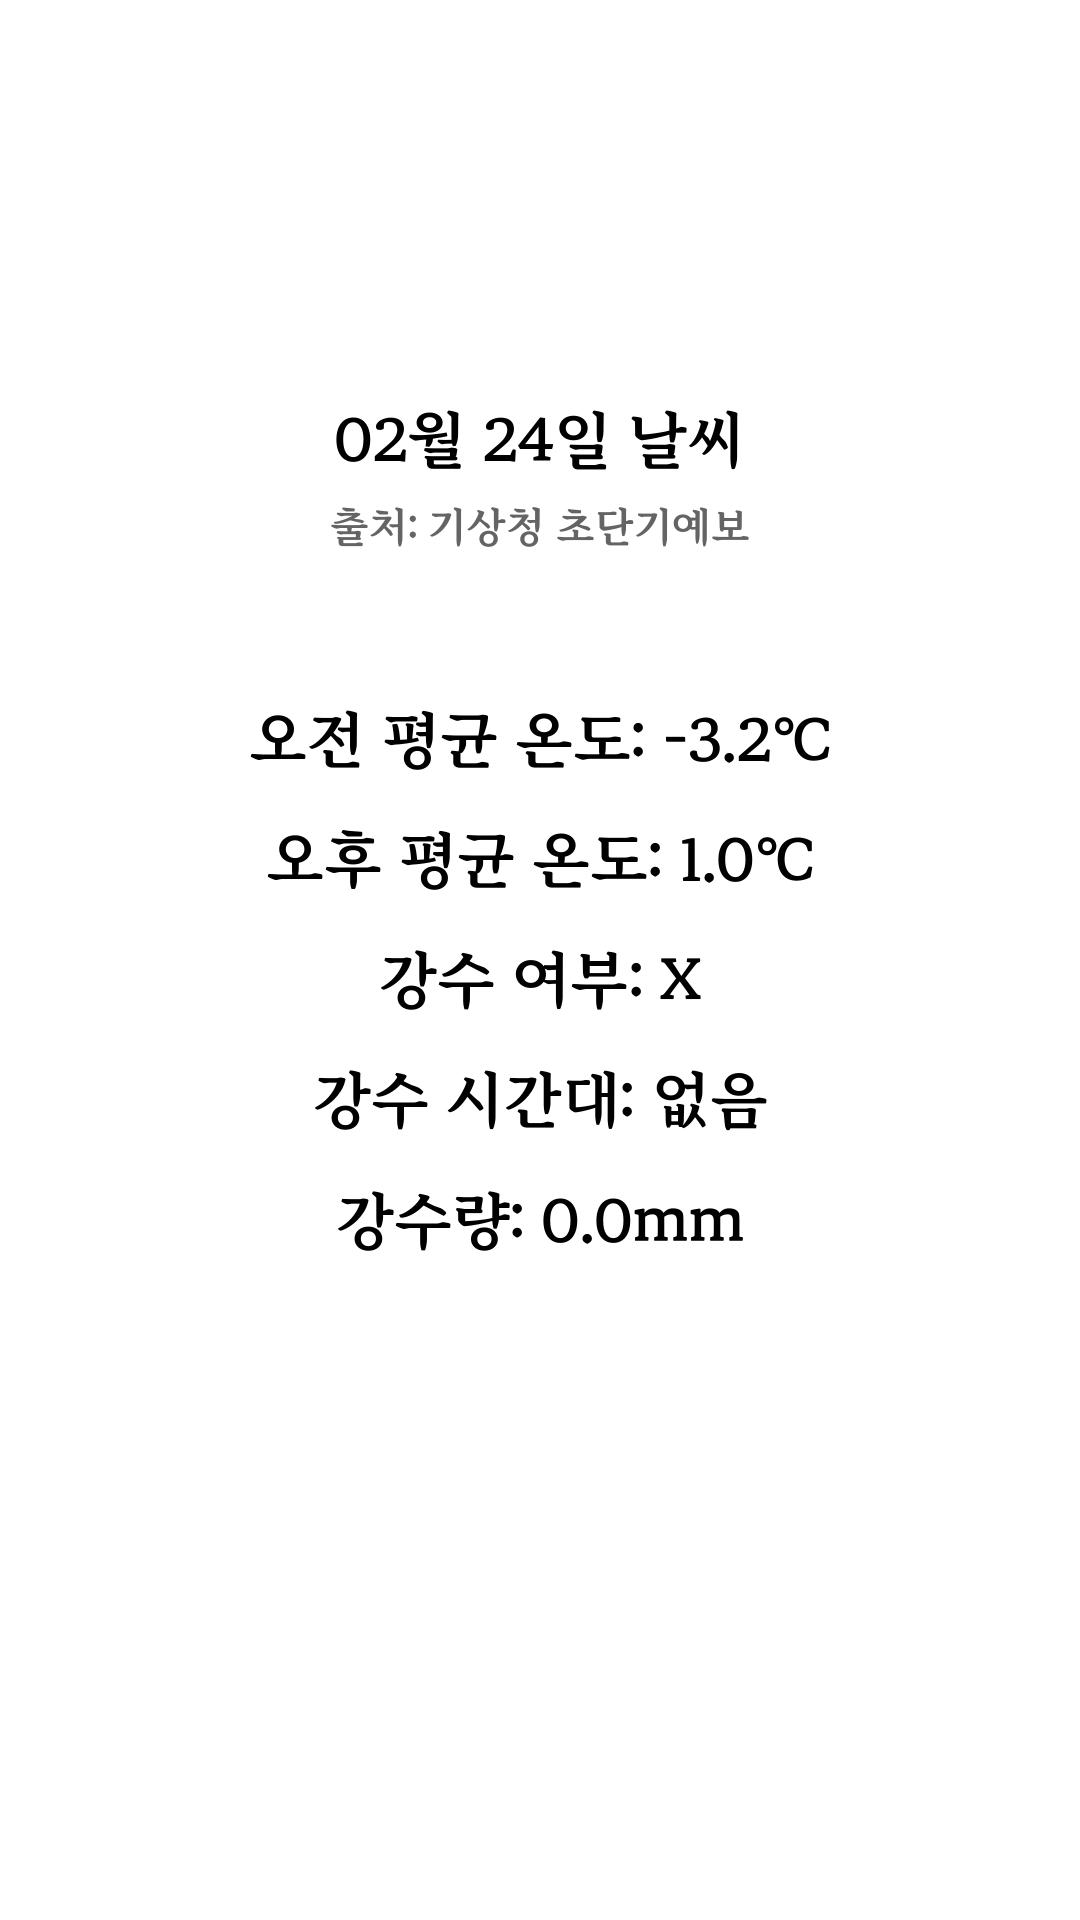
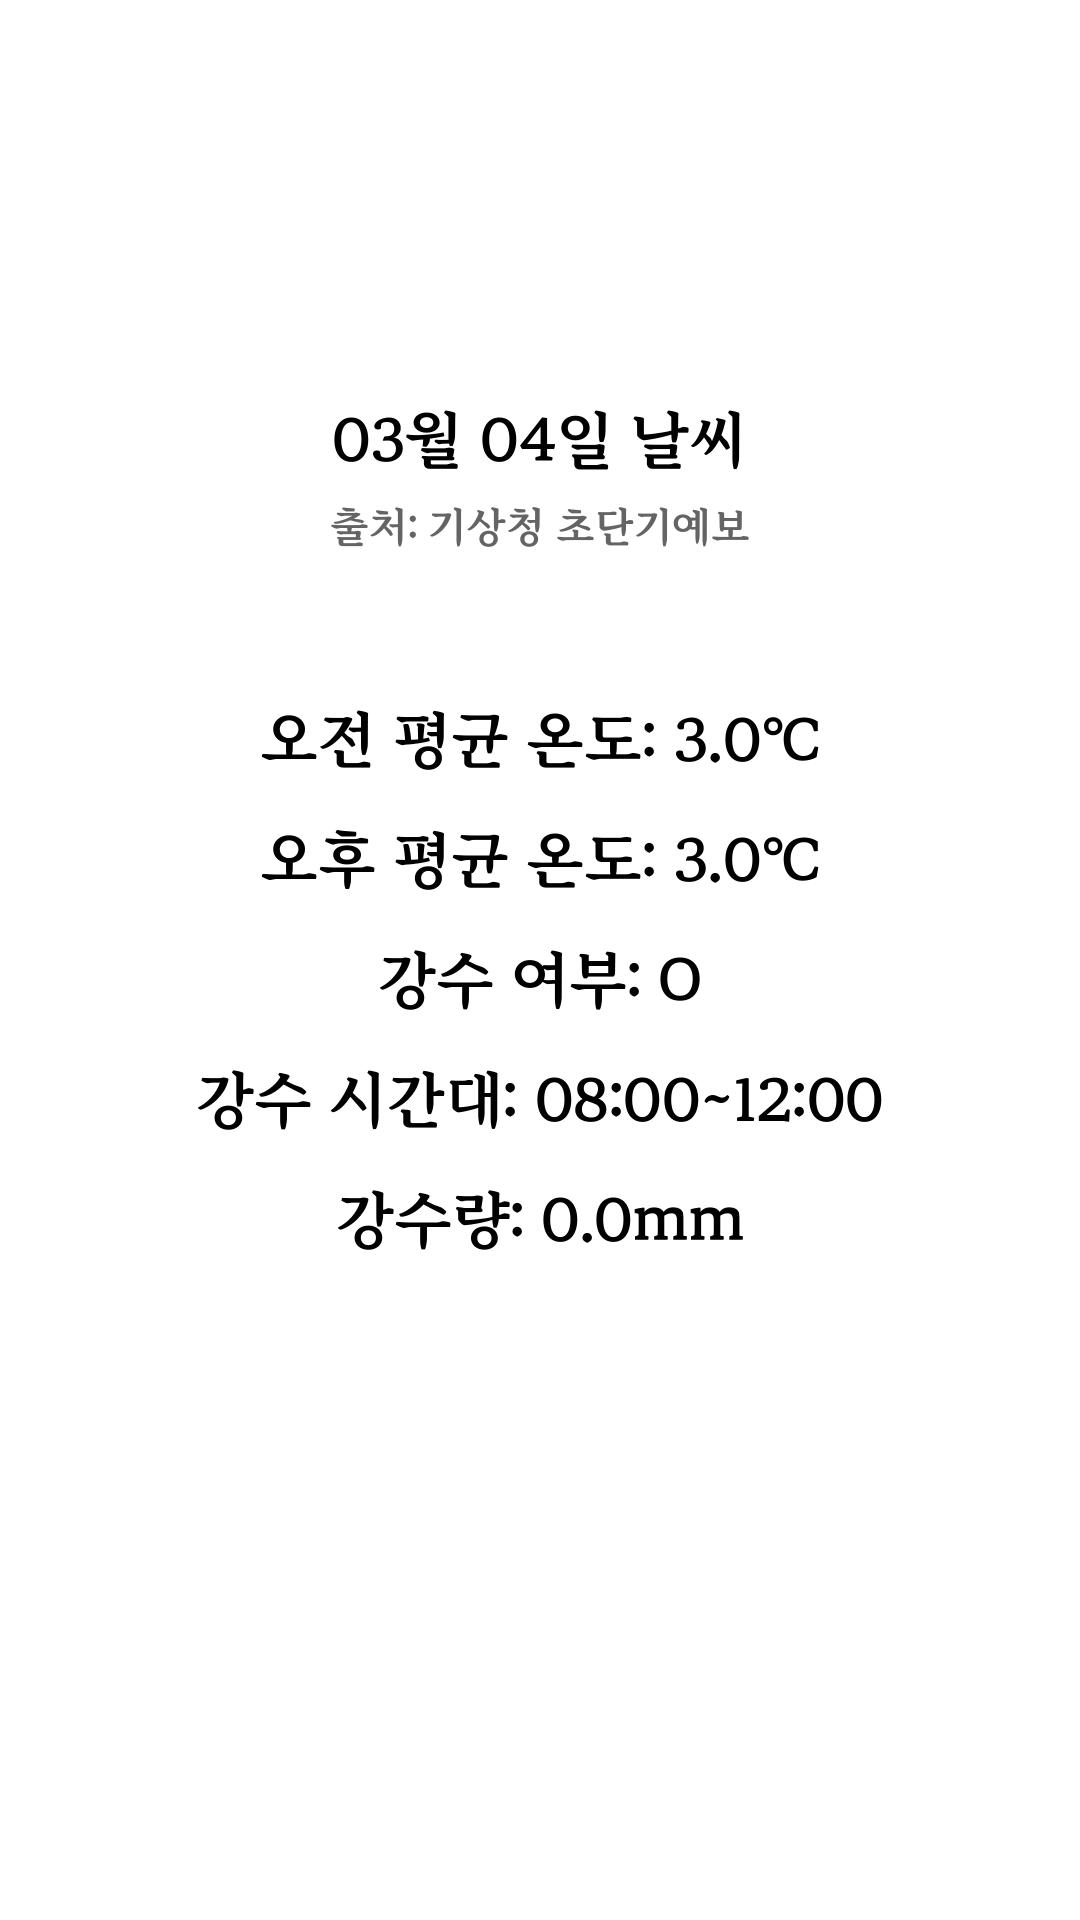
asdf

diff --git a/src/main.py b/src/main.py
@@ -8,6 +8,7 @@ from datetime import datetime, timedelta
 from instagrapi import Client
 from PIL import Image, ImageDraw, ImageFont
 from dotenv import load_dotenv
+from collections import Counter
 
 # 환경 변수 로드
 load_dotenv()
@@ -48,11 +49,41 @@ def get_weather_data():
         base_date = base_time_dt.strftime("%Y%m%d")
         base_time = base_time_dt.strftime("%H%M")
 
+        # API 요청 URL (시간 형식은 항상 4자리 문자열이어야 함 - 예: "0630")
         url = f'http://apis.data.go.kr/1360000/VilageFcstInfoService_2.0/getUltraSrtFcst?serviceKey={WEATHER_API_KEY}&pageNo=1&numOfRows=1000&dataType=JSON&base_date={base_date}&base_time=0630&nx={NX}&ny={NY}'
+        
+        print(f"요청 URL: {url}")  # 디버깅 정보
         
         response = requests.get(url)
         response.raise_for_status()
-        data = response.json()
+        
+        # 응답 내용 확인 (디버깅용)
+        print(f"응답 상태 코드: {response.status_code}")
+        print(f"응답 헤더: {response.headers['Content-Type']}")
+        
+        try:
+            data = response.json()
+        except Exception as e:
+            print(f"JSON 변환 오류: {e}")
+            print(f"응답 내용: {response.text[:200]}...")  # 앞부분만 출력
+            raise
+        
+        # 응답 구조 확인
+        if 'response' not in data:
+            print(f"예상치 못한 응답 형식: {data.keys()}")
+            raise ValueError("API 응답에 'response' 키가 없습니다")
+            
+        if 'body' not in data['response']:
+            print(f"예상치 못한 응답 형식: {data['response'].keys()}")
+            raise ValueError("API 응답에 'body' 키가 없습니다")
+            
+        if 'items' not in data['response']['body']:
+            print(f"예상치 못한 응답 형식: {data['response']['body'].keys()}")
+            raise ValueError("API 응답에 'items' 키가 없습니다")
+        
+        if 'item' not in data['response']['body']['items']:
+            print(f"예상치 못한 응답 형식: {data['response']['body']['items'].keys()}")
+            raise ValueError("API 응답에 'item' 키가 없습니다")
         
         items = data['response']['body']['items']['item']
         today = now.strftime("%Y%m%d")
@@ -71,34 +102,74 @@ def get_weather_data():
             forecasts[fcst_time][category] = value
 
         # 데이터 분석
-        am_temps, pm_temps = [], []
+        temps = []
+        humidities = []
         precip_times = []
         precip_sum = 0.0
-        precip_types = set()  # 강수 형태를 저장할 집합
+        sky_codes = []  # 하늘 상태 코드 저장
+        precip_types_list = []  # 강수 형태 저장
 
         for time_str in sorted(forecasts.keys()):
             data = forecasts[time_str]
-            hour = int(time_str[:2])
             
             # 온도
             if 'T1H' in data:
                 try:
                     temp = float(data['T1H'])
-                    if hour < 12: am_temps.append(temp)
-                    else: pm_temps.append(temp)
-                except: pass
+                    temps.append(temp)
+                except: 
+                    pass
+
+            # 습도
+            if 'REH' in data:
+                try:
+                    humidity = float(data['REH'])
+                    humidities.append(humidity)
+                except:
+                    pass
+
+            # 하늘 상태
+            if 'SKY' in data:
+                try:
+                    sky_codes.append(data['SKY'])
+                except:
+                    pass
 
             # 강수 형태 확인
             pty = data.get('PTY', '0')
             if pty != '0':
-                precip_types.add(pty)  # 강수 형태 추가
+                # 강수형태(PTY) 코드 매핑
+                precip_type_map = {
+                    '0': '없음',
+                    '1': '비',
+                    '2': '비/눈',
+                    '3': '눈',
+                    '4': '소나기',
+                    '5': '빗방울',
+                    '6': '빗방울눈날림',
+                    '7': '눈날림'
+                }
+                precip_type = precip_type_map.get(pty, f'알 수 없음({pty})')
+                precip_types_list.append(precip_type)
 
             # 강수량 확인
             rn1 = data.get('RN1', '0')
             if rn1 not in ['0', '강수없음']:
                 try:
-                    precip_sum += float(rn1)
-                except:
+                    # 강수량 문자열 파싱
+                    if rn1 == '1mm 미만':
+                        precip_sum += 0.5  # 1mm 미만은 0.5로 가정
+                    elif 'mm' in rn1:
+                        # 숫자 부분만 추출 (예: "2.0mm" -> 2.0)
+                        precip_value = float(re.search(r'(\d+\.?\d*)', rn1).group(1))
+                        precip_sum += precip_value
+                    else:
+                        try:
+                            precip_sum += float(rn1)
+                        except:
+                            pass
+                except Exception as e:
+                    print(f"강수량 파싱 오류: {e} - 값: {rn1}")
                     pass
 
             # 강수 시간대 추가
@@ -124,66 +195,143 @@ def get_weather_data():
             else:
                 time_ranges.append(f"{current_start}~{current_end}")  # 마지막 연속 시간대
 
-        # 강수 형태 매핑
-        precip_type_map = {
-            '0': '없음',
-            '1': '비',
-            '2': '비/눈',
-            '3': '눈',
-            '4': '소나기'
-        }
-        precip_type_str = ', '.join([precip_type_map[pty] for pty in sorted(precip_types)]) if precip_types else '없음'
+        # 하늘 상태 결정 (가장 많이 나온 코드)
+        sky_condition = "정보 없음"
+        if sky_codes:
+            # 하늘상태(SKY) 코드 : 맑음(1), 구름많음(3), 흐림(4)
+            sky_map = {'1': '맑음', '3': '구름많음', '4': '흐림'}
+            sky_counter = Counter(sky_codes)
+            most_common_sky_code = sky_counter.most_common(1)[0][0]
+            sky_condition = sky_map.get(most_common_sky_code, '알 수 없음')
+
+        # 가장 많이 나온 강수 형태 결정
+        precip_type = ""
+        if precip_types_list:
+            precip_counter = Counter(precip_types_list)
+            most_common_precip = precip_counter.most_common(1)[0][0]
+            precip_type = f", {most_common_precip}"
+
+        # 최종 날씨 상태
+        weather_status = f"{sky_condition}{precip_type}"
 
         return {
             'date': now.strftime("%m월 %d일"),
-            'am_temp': sum(am_temps)/len(am_temps) if am_temps else None,
-            'pm_temp': sum(pm_temps)/len(pm_temps) if pm_temps else None,
-            'precip': precip_type_str if precip_types else 'X',  # 강수 형태 또는 X
+            'avg_temp': sum(temps)/len(temps) if temps else None,
+            'avg_humidity': sum(humidities)/len(humidities) if humidities else None,
+            'weather_status': weather_status,
             'precip_times': time_ranges,
             'precip_sum': precip_sum
         }
 
     except Exception as e:
+        import traceback
         print(f"Weather error: {e}")
+        print(traceback.format_exc())
         return None
 
-def create_weather_image(weather):
+def create_weather_image(weather, output_path=None):
     img = Image.new('RGB', (1080, 1920), (255, 255, 255))
     draw = ImageDraw.Draw(img)
     
     try:
-        font = ImageFont.truetype("font.ttf", 60)
-        small_font = ImageFont.truetype("font.ttf", 40)
+        # 폰트 로드
+        title_font = ImageFont.truetype("font.ttf", 60)
+        label_font = ImageFont.truetype("font.ttf", 50)
+        value_font = ImageFont.truetype("font.ttf", 48)
+        source_font = ImageFont.truetype("font.ttf", 38)
     except:
-        font = ImageFont.load_default()
-        small_font = ImageFont.load_default()
+        title_font = ImageFont.load_default()
+        label_font = ImageFont.load_default()
+        value_font = ImageFont.load_default()
+        source_font = ImageFont.load_default()
 
     # 제목
     title = f"{weather['date']} 날씨"
-    w, h = draw.textbbox((0,0), title, font=font)[2:]
-    draw.text(((1080-w)/2, 400), title, (0,0,0), font=font)
+    title_bbox = draw.textbbox((0,0), title, font=title_font)
+    title_width = title_bbox[2] - title_bbox[0]
+    draw.text(((1080-title_width)/2, 350), title, (0,0,0), font=title_font)
 
     # 출처
     source = "출처: 기상청 초단기예보"
-    w, h = draw.textbbox((0,0), source, font=small_font)[2:]
-    draw.text(((1080-w)/2, 500), source, (100,100,100), font=small_font)
+    source_bbox = draw.textbbox((0,0), source, font=source_font)
+    source_width = source_bbox[2] - source_bbox[0]
+    draw.text(((1080-source_width)/2, 430), source, (100,100,100), font=source_font)
 
-    # 내용
-    y = 700
-    lines = [
-        f"오전 평균 온도: {weather['am_temp']:.1f}℃" if weather['am_temp'] else "오전 온도: 정보없음",
-        f"오후 평균 온도: {weather['pm_temp']:.1f}℃" if weather['pm_temp'] else "오후 온도: 정보없음",
-        f"강수 여부: {weather['precip']}",
-        "강수 시간대: " + (", ".join(weather['precip_times']) if weather['precip_times'] else "없음"),
-        f"강수량: {weather['precip_sum']:.1f}mm"
+    # 날씨 정보 항목
+    items = [
+        {"label": "하늘 상태", "value": weather['weather_status']},
+        {"label": "평균 온도", "value": f"{weather['avg_temp']:.1f}℃" if weather['avg_temp'] else "정보없음"},
+        {"label": "평균 습도", "value": f"{weather['avg_humidity']:.1f}%" if weather['avg_humidity'] else "정보없음"},
+        {"label": "강수 시간대", "value": ", ".join(weather['precip_times']) if weather['precip_times'] else "X"},
+        {"label": "강수량", "value": f"{weather['precip_sum']:.1f}mm" if weather['precip_sum'] > 0 else "X"}
     ]
-
-    for line in lines:
-        w, h = draw.textbbox((0,0), line, font=font)[2:]
-        draw.text(((1080-w)/2, y), line, (0,0,0), font=font)
-        y += h + 50
-
-    path = f"{IG_IMAGE_PATH}/{datetime.now().strftime('%Y%m%d')}_weather.jpg"
+    
+    # 시작 위치 설정
+    current_y = 700
+    line_spacing = 100  # 줄 간격
+    center_x = 1080 // 2  # 중앙 X 좌표
+    
+    for item in items:
+        # 레이블과 값을 한 줄에 표시
+        text = f"{item['label']}: {item['value']}"
+        
+        # 줄바꿈이 필요한지 확인
+        text_bbox = draw.textbbox((0, 0), text, font=label_font)
+        text_width = text_bbox[2] - text_bbox[0]
+        
+        if text_width > 900:  # 너무 길면 레이블과 값을 두 줄로 나눔
+            # 레이블 출력
+            label_bbox = draw.textbbox((0, 0), item['label'] + ":", font=label_font)
+            label_width = label_bbox[2] - label_bbox[0]
+            draw.text(((1080-label_width)/2, current_y), item['label'] + ":", (0, 0, 0), font=label_font)
+            
+            # 값은 다음 줄에 출력
+            current_y += 70
+            value_bbox = draw.textbbox((0, 0), item['value'], font=value_font)
+            value_width = value_bbox[2] - value_bbox[0]
+            
+            # 값이 너무 길면 잘라서 여러 줄로 출력
+            if value_width > 900:
+                words = item['value'].split()
+                lines = []
+                current_line = []
+                
+                for word in words:
+                    test_line = current_line + [word]
+                    test_text = " ".join(test_line)
+                    test_bbox = draw.textbbox((0, 0), test_text, font=value_font)
+                    test_width = test_bbox[2] - test_bbox[0]
+                    
+                    if test_width <= 900:
+                        current_line = test_line
+                    else:
+                        if current_line:
+                            lines.append(" ".join(current_line))
+                        current_line = [word]
+                
+                if current_line:
+                    lines.append(" ".join(current_line))
+                
+                # 각 줄 출력
+                for line in lines:
+                    line_bbox = draw.textbbox((0, 0), line, font=value_font)
+                    line_width = line_bbox[2] - line_bbox[0]
+                    draw.text(((1080-line_width)/2, current_y), line, (0, 0, 0), font=value_font)
+                    current_y += 60
+            else:
+                # 한 줄로 충분한 경우
+                draw.text(((1080-value_width)/2, current_y), item['value'], (0, 0, 0), font=value_font)
+                current_y += line_spacing
+        else:
+            # 한 줄로 표시 가능한 경우
+            draw.text(((1080-text_width)/2, current_y), text, (0, 0, 0), font=label_font)
+            current_y += line_spacing
+    
+    if output_path:
+        path = output_path
+    else:
+        path = f"{IG_IMAGE_PATH}/{datetime.now().strftime('%Y%m%d')}_weather.jpg"
+    
     os.makedirs(os.path.dirname(path), exist_ok=True)
     img.save(path)
     print(f"Weather image created: {path}")
@@ -273,6 +421,12 @@ def upload_story(bot, image_path):
     if image_path is not None:
         bot.upload_story(image_path)
 
+def generate_weather_image():
+    weather_data = get_weather_data()
+    if weather_data:
+        return create_weather_image(weather_data, "./weather.png")
+    return None
+
 def job():
     fetch_and_upload_menu()
 
@@ -285,14 +439,12 @@ schedule.every().friday.at("07:00").do(job)
 if __name__ == "__main__":
     parser = argparse.ArgumentParser(description="Upload Instagram story")
     parser.add_argument("--uploadnow", action="store_true", help="Upload the story immediately")
+    parser.add_argument("--genweather", action="store_true", help="Generate weather image only")
     args = parser.parse_args()
 
-    bot = Bot()
-    #initiated_image_path = create_initiated_image()
-    #bot.upload_story(initiated_image_path)
-    #print("Initiated image uploaded successfully.")
-
-    if args.uploadnow:
+    if args.genweather:
+        generate_weather_image()
+    elif args.uploadnow:
         fetch_and_upload_menu()
     else:
         print("Program initiated.")
